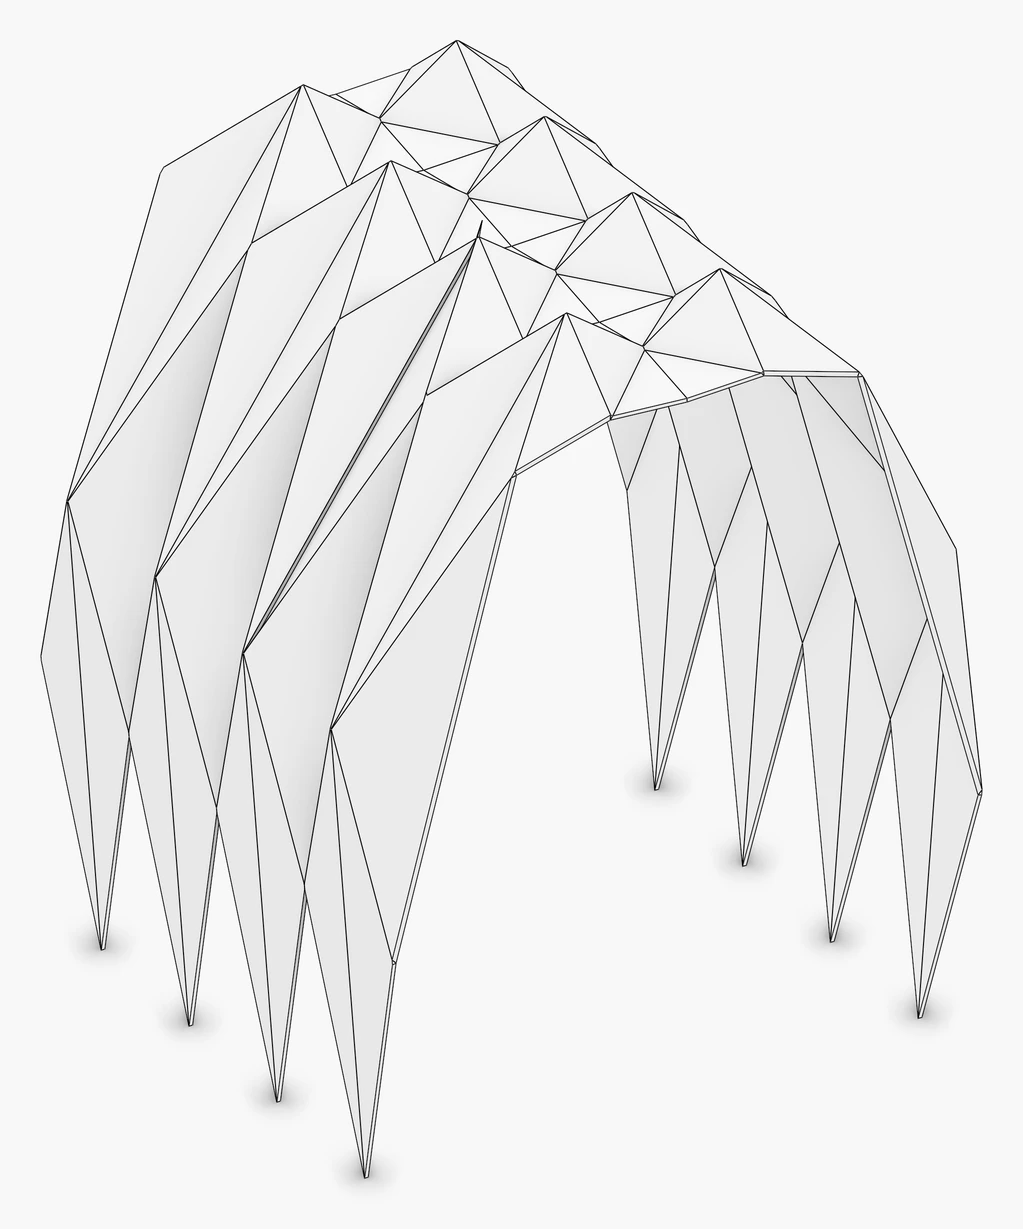
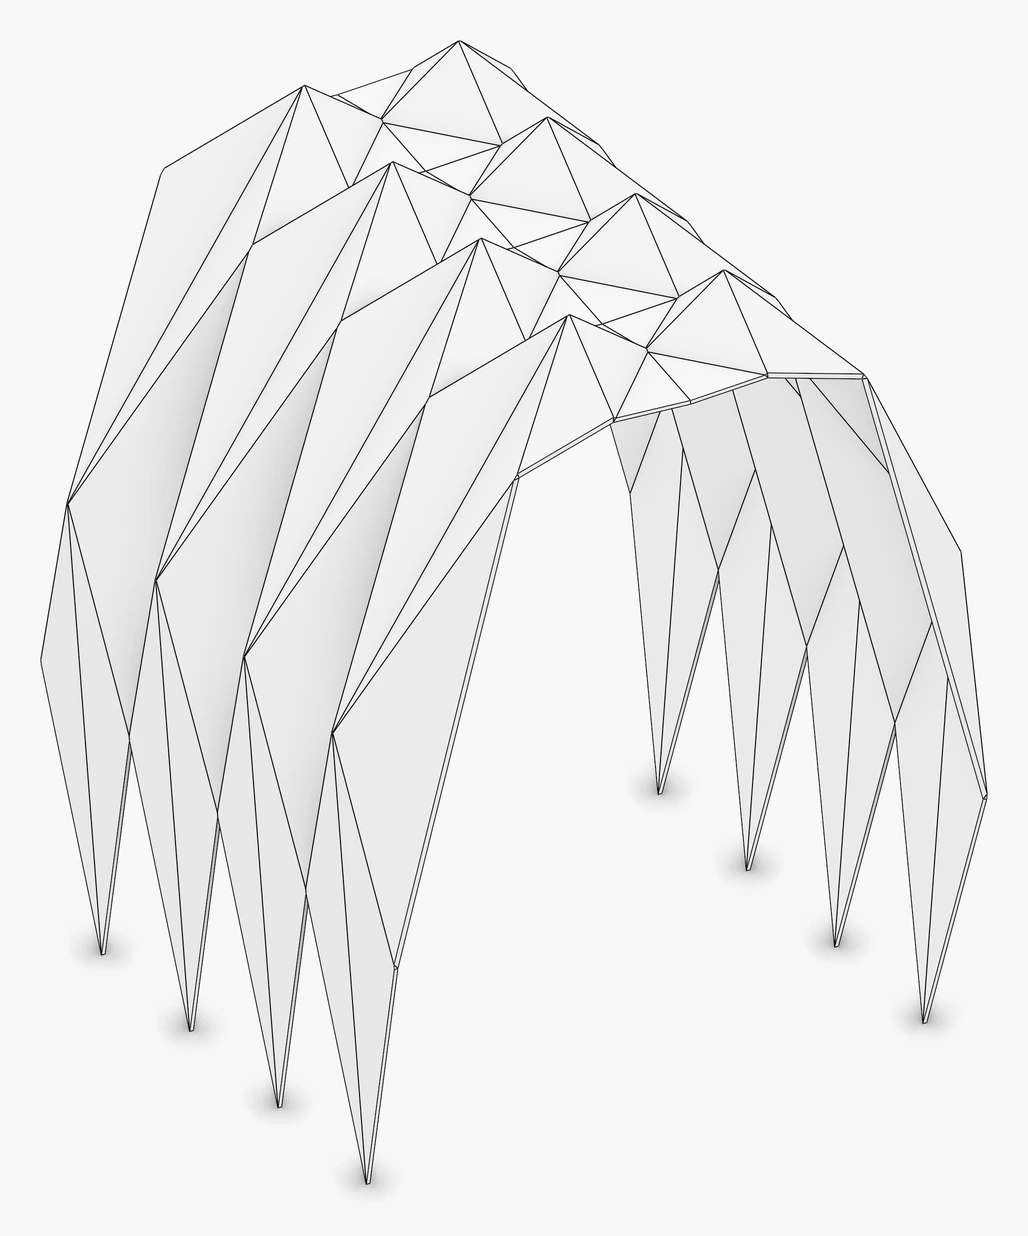
wood: offset_plates merges coincident chain points - where four offset planes meet in one point two consecutive chain points are one, and the near-duplicates had made the validity test reject the tight splits of the pointed arch's symmetric hinge vertex, picking a corner 5.5 m away; every other fold

diff --git a/src/templates/template_chamfer.h b/src/templates/template_chamfer.h
@@ -374,7 +374,9 @@ inline std::vector<std::shared_ptr<Plate>> offset_plates(const Mesh& mesh, doubl
                     if (!point)
                         return std::nullopt;
 
-                    inner.push_back(*point);
+                    // where four planes meet in one point, two consecutive points are one: no edge between them
+                    if (inner.empty() || inner.back().distance(*point) > 1e-3)
+                        inner.push_back(*point);
                 }
 
                 return inner;
